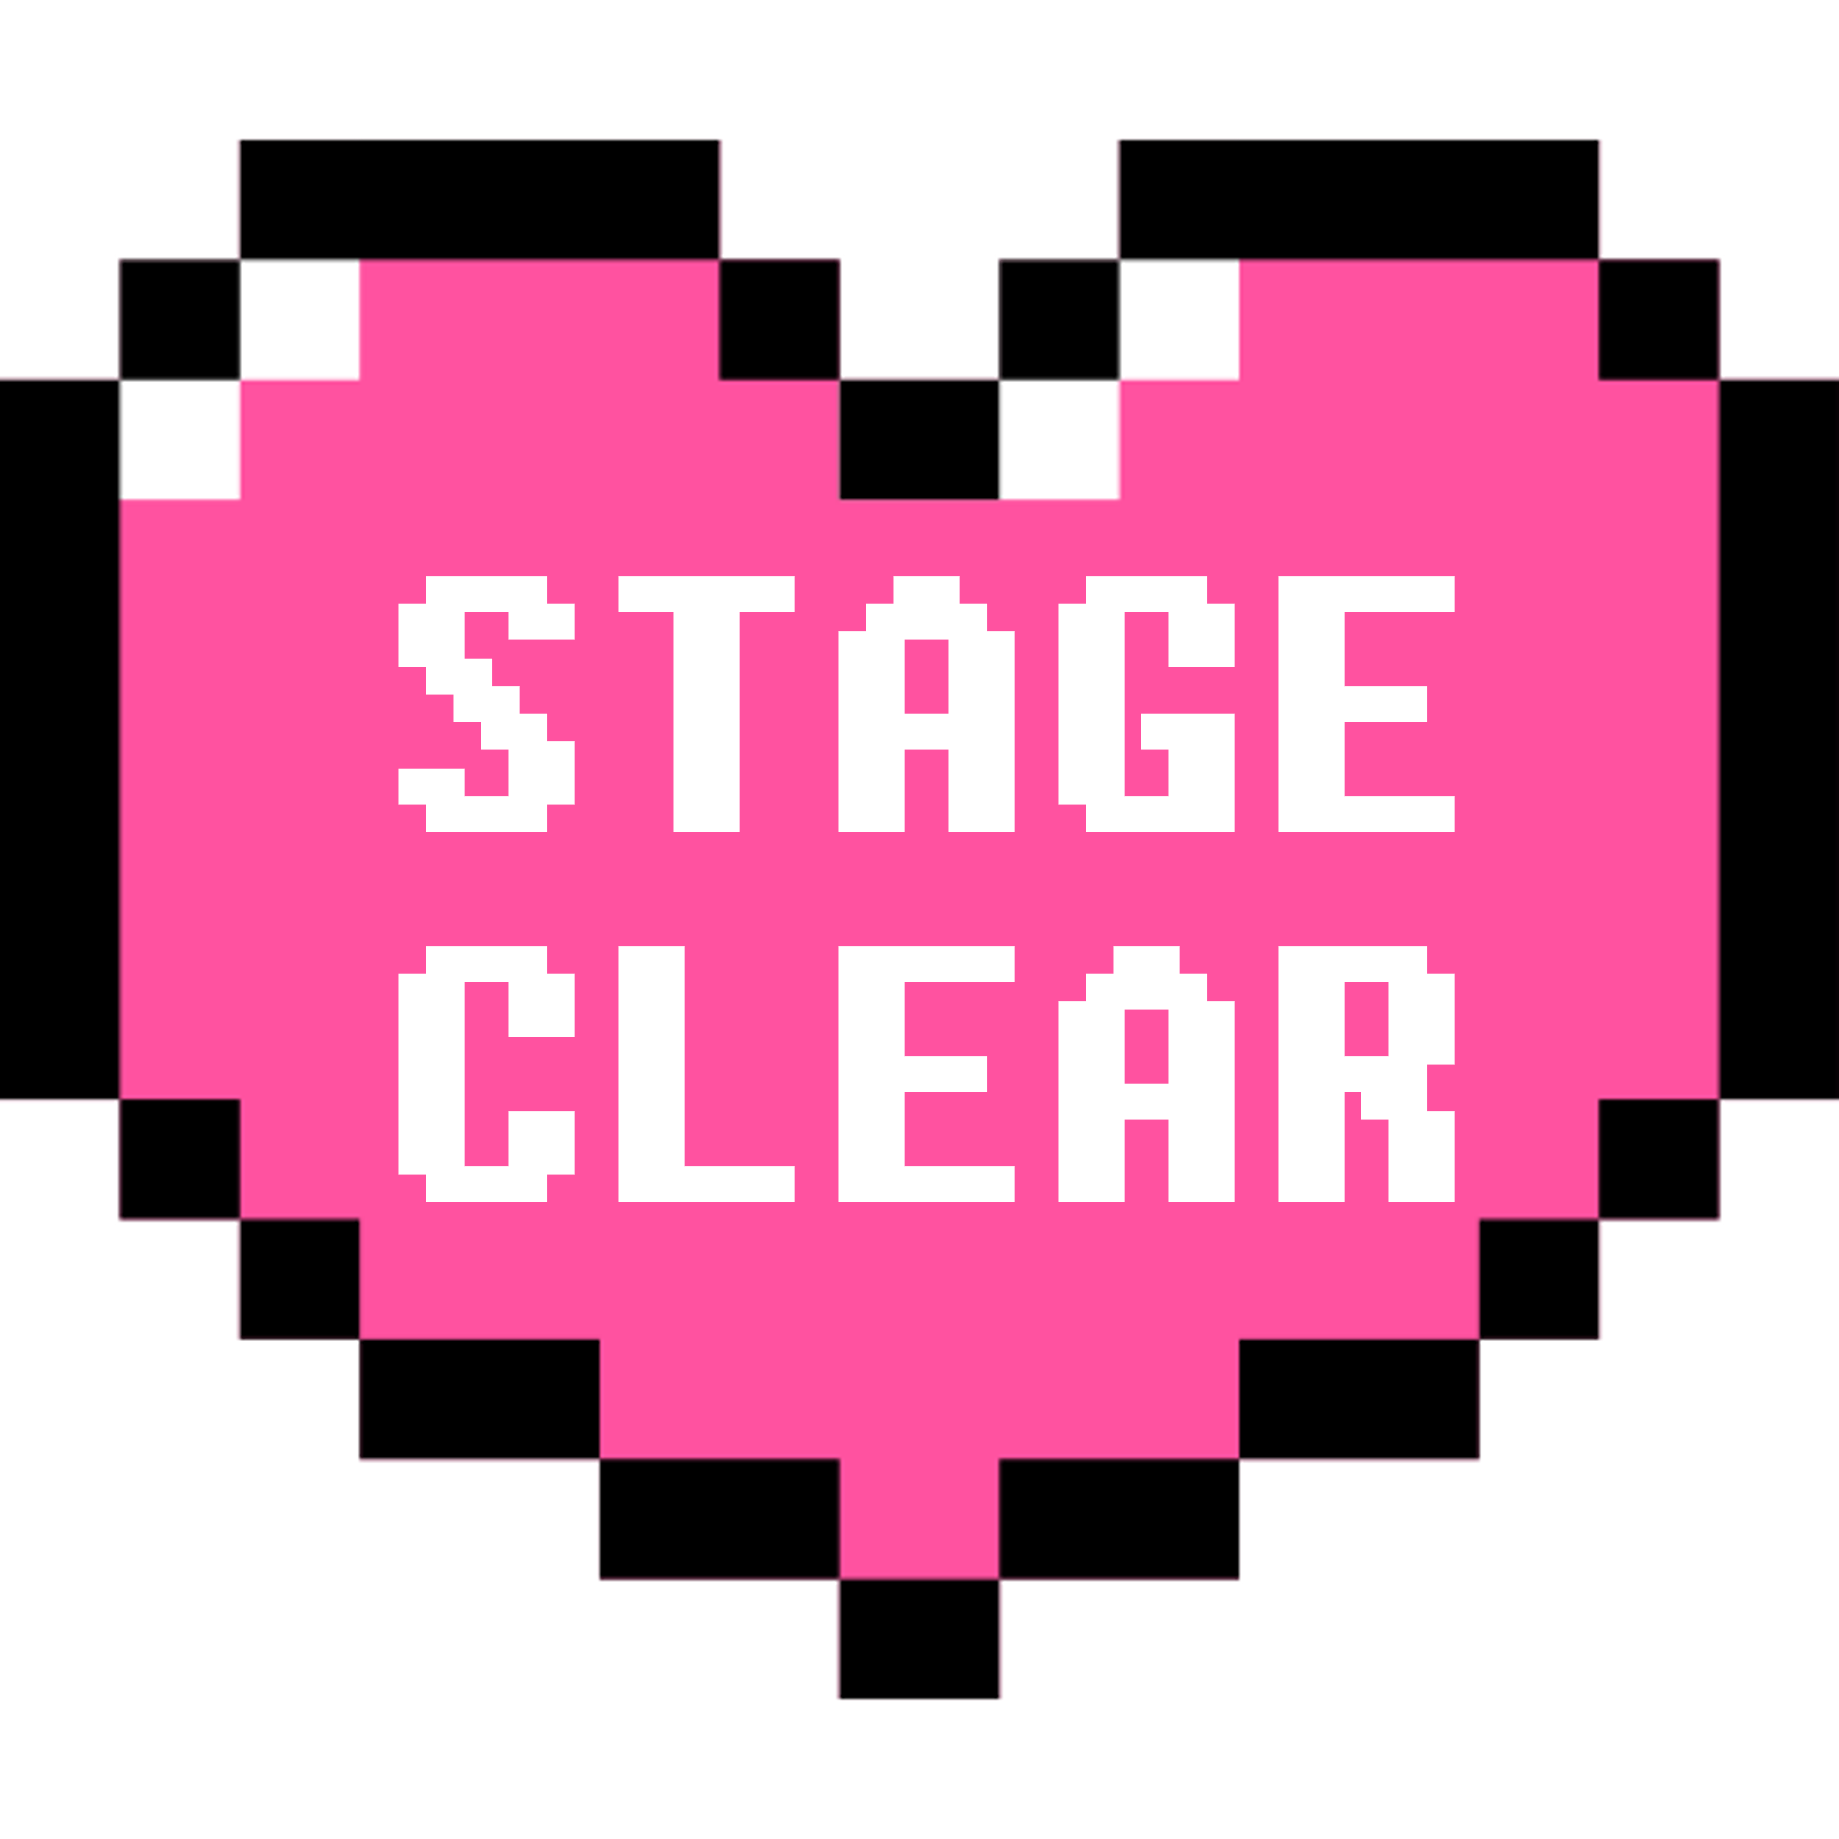
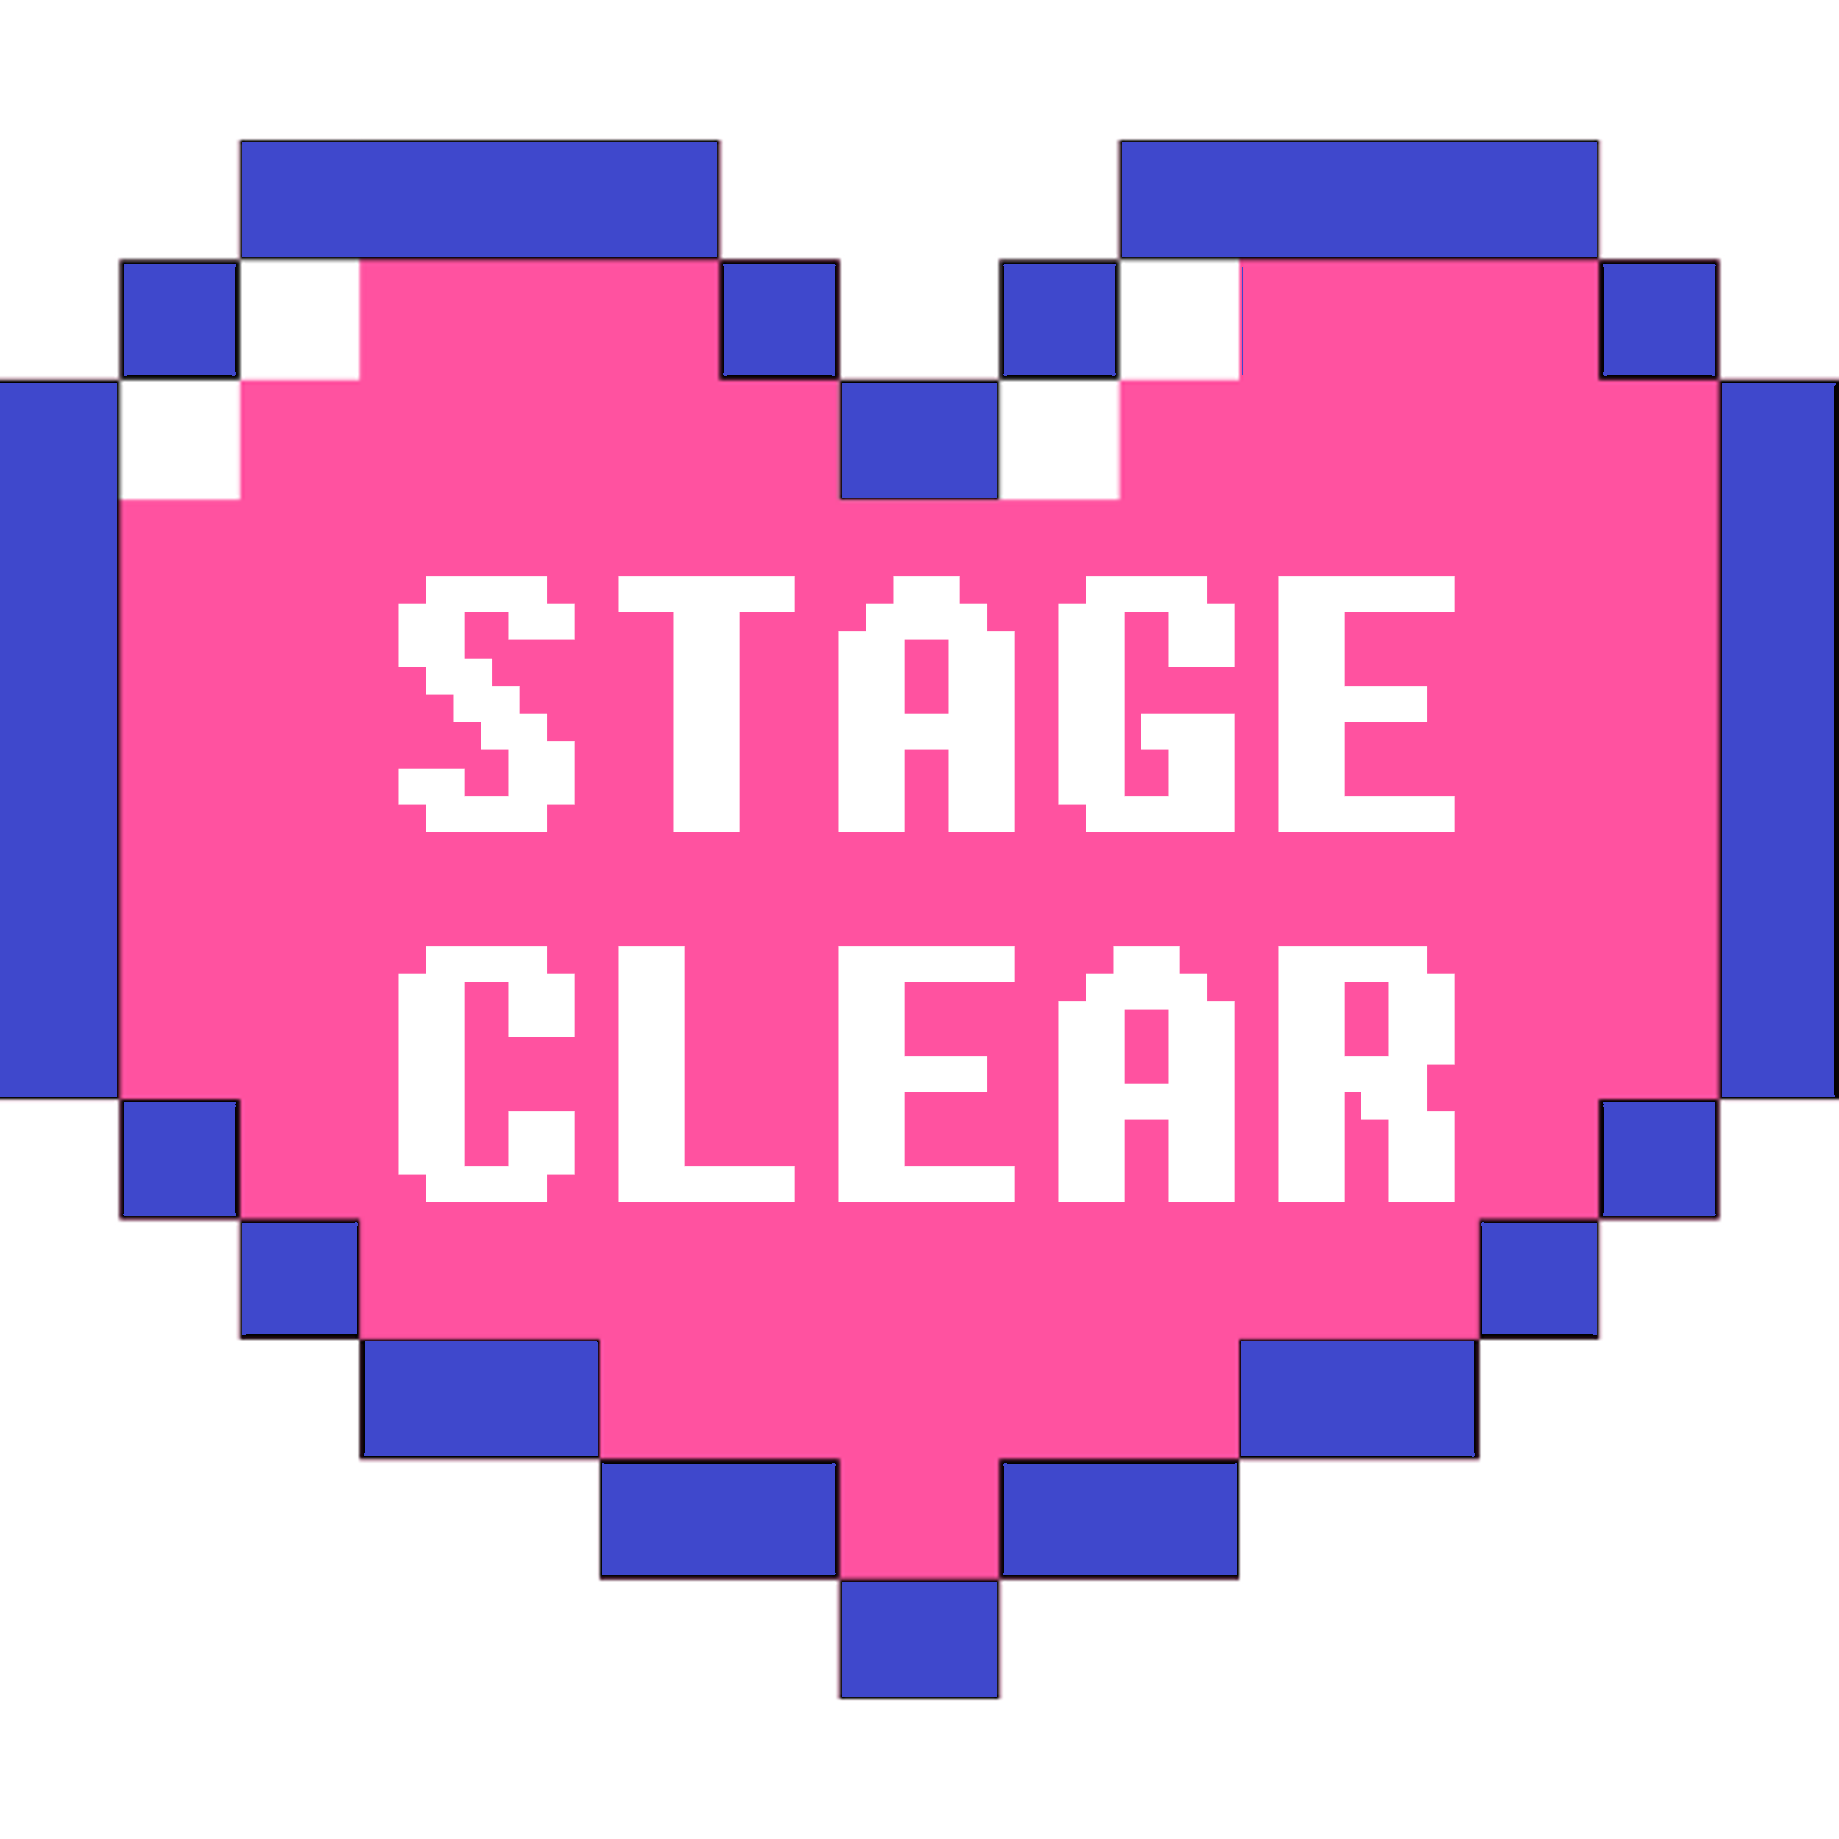
#39 - 칼라 체인지 블랙을 블루로

Changed region(s): [[0.0, 0.062, 1.0, 0.9299]]

diff --git a/css/game-bac.css b/css/game-bac.css
@@ -186,7 +186,9 @@
     width: 20%;
     height: 60%;
     max-height: 30px;
-    padding: 5px;
+    padding: 10px;
+
+    background-color: whitesmoke;
 }
 
 .modal {
@@ -264,6 +266,27 @@
 
 .info-modal .modal__content-desc--list li::before {
     content: '🤍';
+}
+/*김남영 점수창 관련 설정값 추가 info-modal을 베이스로 하되 일부 변경할거*/
+
+.info-modal .modal__content-desc--list-myscore {
+    padding-left: 20px;
+    text-align: left;
+}
+
+.info-modal .modal__content-desc--list-myscore li{
+    margin-bottom: 10px;
+    text-indent: -20px;
+}
+.info-modal .modal__content-desc--list-myscore li::before{
+
+}
+.info-modal .modal__content-desc--list-myrank li{
+    margin-bottom: 10px;
+    text-indent: -20px;
+}
+.info-modal .modal__content-desc--list-myrank li::before{
+
 }
 
 .modal__content-title--alert {
